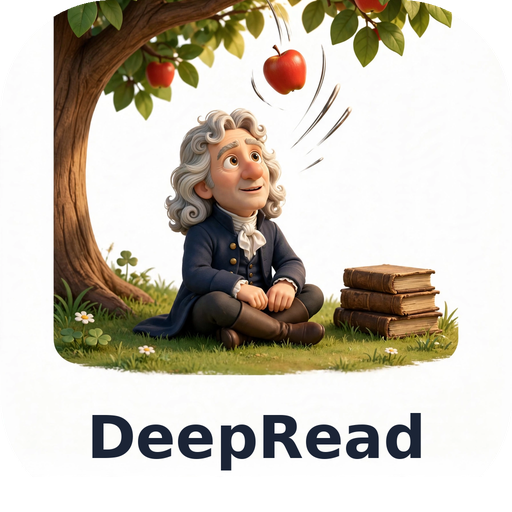
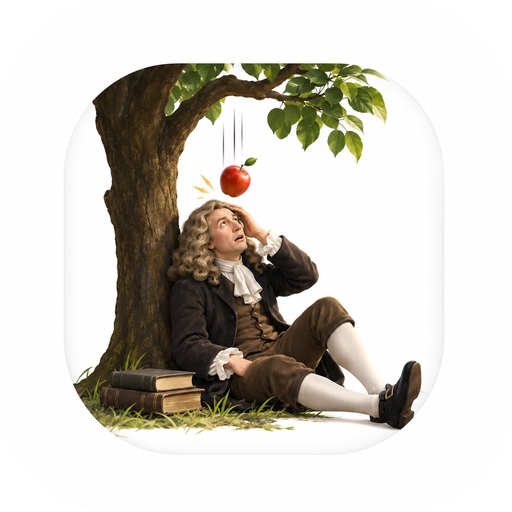
图标：直接采用牛顿参考图，无文字

diff --git a/sw.js b/sw.js
@@ -1,5 +1,5 @@
 /* Deepreading service worker：应用壳离线缓存 */
-const CACHE = 'deepreading-v3.2';
+const CACHE = 'deepreading-v3.3';
 const CORE = [
   './', './index.html', './manifest.json',
   './icon-192.png', './icon-512.png',
